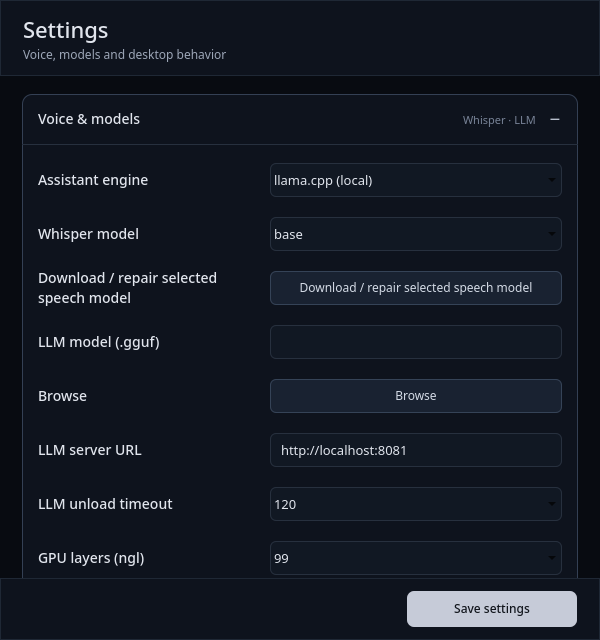
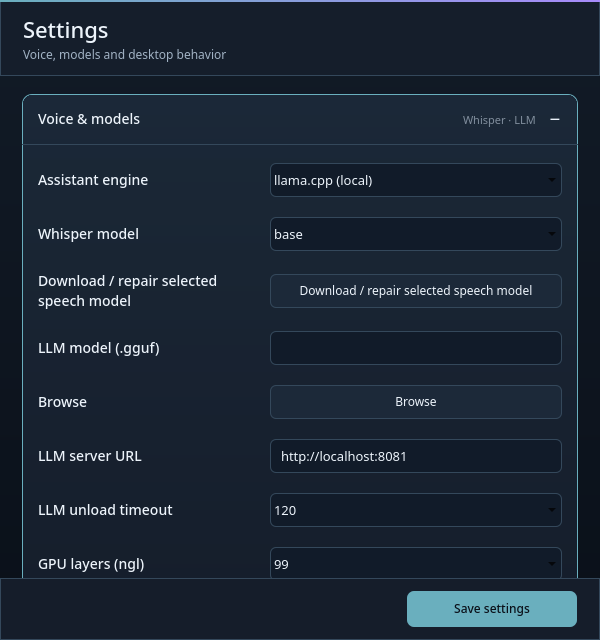
docs(readme): refresh English UI screenshots and theme guide

diff --git a/tools/capture_readme_screenshots.py b/tools/capture_readme_screenshots.py
@@ -1,0 +1,100 @@
+"""Capture reproducible English README images from the current Qt UI."""
+
+import os
+import sys
+from pathlib import Path
+
+os.environ.setdefault("QT_QPA_PLATFORM", "offscreen")
+ROOT = Path(__file__).resolve().parents[1]
+sys.path.insert(0, str(ROOT))
+
+from PySide6.QtCore import QObject, QEventLoop, QTimer  # noqa: E402
+from PySide6.QtWidgets import QApplication  # noqa: E402
+
+from vigil_ui.app import create_engine, dispose_engine  # noqa: E402
+from vigil_ui.i18n import TranslationBridge  # noqa: E402
+from vigil_ui.overlay import OverlayModel  # noqa: E402
+from vigil_ui.settings_model import SettingsModel  # noqa: E402
+from vigil_ui.setup_model import SetupModel  # noqa: E402
+
+
+OUTPUT = ROOT / "img" / "screenshots"
+
+
+def settle(milliseconds=220):
+    loop = QEventLoop()
+    QTimer.singleShot(milliseconds, loop.quit)
+    loop.exec()
+
+
+def capture(window, name):
+    image = window.grabWindow()
+    if image.isNull() or not image.save(str(OUTPUT / name)):
+        raise RuntimeError(f"Could not capture {name}")
+    print(f"{name}: {image.width()} x {image.height()}")
+
+
+def main():
+    app = QApplication.instance() or QApplication([])
+    translator = TranslationBridge("en")
+    settings = SettingsModel(translator, preview=False)
+    setup = SetupModel(translator, initial=True)
+    overlay = OverlayModel()
+    engine, _ = create_engine(
+        app, language="en", visible=True, translator=translator,
+        settings_model=settings, setup_model=setup, overlay_model=overlay,
+    )
+    settings_window, overlay_window, setup_window = engine.rootObjects()
+
+    try:
+        settle()
+        capture(settings_window, "settings-en.png")
+
+        setup._page = 1
+        setup.setValue("llama_backend", "vulkan")
+        settle()
+        capture(setup_window, "setup-en.png")
+
+        settings_window.findChild(QObject, "voiceModelsGroup").setProperty("expanded", False)
+        theme_group = settings_window.findChild(QObject, "themeGroup")
+        theme_group.setProperty("expanded", True)
+        settle(300)
+        scroll = settings_window.findChild(QObject, "settingsScroll").property("contentItem")
+        scroll.setProperty("contentY", max(0, theme_group.y() - 15))
+        settle(80)
+        capture(settings_window, "settings-theme-en.png")
+        scroll.setProperty("contentY", theme_group.y() + theme_group.height()
+                           - scroll.height() + 8)
+        settle(80)
+        capture(settings_window, "settings-theme-opacity-en.png")
+
+        overlay.show_recording()
+        overlay.update_level(0.62)
+        settle()
+        capture(overlay_window, "pill-recording-en.png")
+        overlay.show_assistant()
+        overlay.update_level(0.78)
+        settle()
+        capture(overlay_window, "pill-assistant-en.png")
+        overlay.show_processing()
+        settle()
+        capture(overlay_window, "pill-processing-en.png")
+
+        overlay.show_answer(
+            "Vigil can dictate into any app, search your notes, and answer "
+            "questions while your data stays on your device."
+        )
+        overlay._type_timer.stop()
+        overlay._visible_answer = overlay._answer
+        overlay._deadline_ms = 6400
+        overlay._answer_timer.stop()
+        overlay.changed.emit()
+        settle()
+        capture(overlay_window, "answer-en.png")
+    finally:
+        overlay.close()
+        dispose_engine(engine)
+
+
+if __name__ == "__main__":
+    main()

diff --git a/README.md b/README.md
@@ -44,6 +44,8 @@ Vigil defaults to **strict local mode**: speech recognition via [faster-whisper]
 - **Clear context** — say *"clear context"* / *"nettoie la conv"* to reset, or use the tray menu button
 - **TTS (optional)** — [Piper](https://github.com/rhasspy/piper) voices (FR/EN), configurable mode: TTS only, overlay text only, or both
 - **Overlay pills** — compact listening, assistant and processing states with a live input level indicator
+- **Answer card** — streamed text with automatic scrolling, copy control, and a visible countdown that pauses on hover
+- **Customizable theme** — Vigil and classic presets, editable palette and two-color accent gradient, plus separate opacity sliders for overlays and app windows
 - **Full settings UI** — all configuration from the settings window; no editing config files
 - **Multi-language** — English, French, Italian; add more via `locales.py`
 - **X11 + universal Wayland hotkeys** — native binding on KDE (KGlobalAccel), GNOME (gsettings), Hyprland, Sway, niri; graceful manual-instructions fallback elsewhere
@@ -59,19 +61,29 @@ Vigil defaults to **strict local mode**: speech recognition via [faster-whisper]
 
 ## Interface preview
 
-The captures below show the current Qt interface in English.
+These captures show the current Qt interface in English with sample settings.
 
-| Setup wizard | Settings |
+| Setup wizard · assistant engine | Settings · voice and models |
 |---|---|
-| <img src="img/screenshots/setup-en.png" alt="Vigil setup wizard, assistant model page" width="400"> | <img src="img/screenshots/settings-en.png" alt="Vigil settings, voice and models section" width="400"> |
+| <img src="img/screenshots/setup-en.png" alt="Vigil setup wizard, assistant engine step" width="400"> | <img src="img/screenshots/settings-en.png" alt="Vigil settings, voice and models section" width="400"> |
 
-**Overlay pills**
+| Theme · presets and palette | Theme · opacity and motion |
+|---|---|
+| <img src="img/screenshots/settings-theme-en.png" alt="Theme settings with starting palettes and color controls" width="400"> | <img src="img/screenshots/settings-theme-opacity-en.png" alt="Theme settings with overlay and window opacity sliders" width="400"> |
+
+**Overlay pills and answer card**
 
 <p align="center">
   <img src="img/screenshots/pill-recording-en.png" alt="Listening pill" width="280">
   <img src="img/screenshots/pill-assistant-en.png" alt="Assistant pill" width="280">
   <img src="img/screenshots/pill-processing-en.png" alt="Processing pill" width="280">
 </p>
+
+<p align="center">
+  <img src="img/screenshots/answer-en.png" alt="Answer card with copy control and visible countdown" width="420">
+</p>
+
+The answer card starts its countdown after the text finishes appearing and any speech finishes. Hovering pauses it; the default duration is 8 seconds.
 
 ---
 
@@ -246,7 +258,8 @@ Open from the tray → **Settings**. All changes are saved to the local database
 | Language | EN / FR / IT |
 | Overlay position | 9-position grid (bottom-center default) |
 | Lock to screen | Pin overlay to a specific monitor |
-| Answer card timeout | Seconds before the answer pill auto-closes (5–30 s) |
+| Answer card timeout | Countdown after the answer finishes appearing and speaking (5–30 s, default 8); pauses on hover |
+| Theme | Four starting palettes; window, panel, input, text, border and accent colors; optional two-color gradient; separate overlay and window opacity sliders; reduced motion |
 | Hotkeys | Dictation and assistant key combos |
 | TTS | Engine, voices (FR/EN), display mode, volume |
 | Re-run setup | Launch the first-run wizard again (model swap, TTS setup, etc.) |
